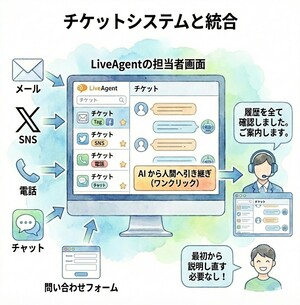
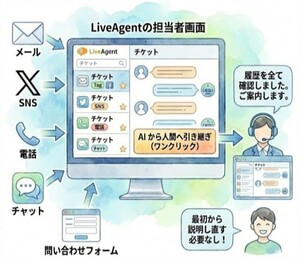
Add image optimization to pillars tabs section
- Replace plain img tags with lazyimg_internal.html partial
- Add WebP support and responsive images (srcset)
- Optimize tab thumbnails (maxWidth: 300px)
- Optimize content images (maxWidth: 800px)
- Add preprocessed optimized images for pillars and services

diff --git a/layouts/partials/sections/features/pillars_tabs.html b/layouts/partials/sections/features/pillars_tabs.html
@@ -332,7 +332,12 @@
         >
           <div class="pillars-tab-thumb {{ $accentColor }}">
             {{ if $item.image }}
-            <img src="{{ partial "functions/get-localized-image.html" $item.image }}" alt="{{ $item.title }}" loading="lazy">
+            {{ partial "components/media/lazyimg_internal.html" (dict
+              "src" (partial "functions/get-localized-image.html" $item.image)
+              "alt" $item.title
+              "maxWidth" 300
+              "class" ""
+            ) }}
             {{ end }}
           </div>
           <div class="pillars-tab-title">{{ $item.title }}</div>
@@ -375,7 +380,12 @@
           <div class="pillars-content-image">
             <div class="pillars-image-wrapper">
               {{ if $item.image }}
-              <img src="{{ partial "functions/get-localized-image.html" $item.image }}" alt="{{ $item.title }}" loading="lazy">
+              {{ partial "components/media/lazyimg_internal.html" (dict
+                "src" (partial "functions/get-localized-image.html" $item.image)
+                "alt" $item.title
+                "maxWidth" 800
+                "class" ""
+              ) }}
               {{ else }}
               <div class="aspect-[4/3] flex items-center justify-center">
                 <svg class="w-20 h-20 {{ $colors.text }} opacity-30" fill="none" viewBox="0 0 24 24" stroke="currentColor">
